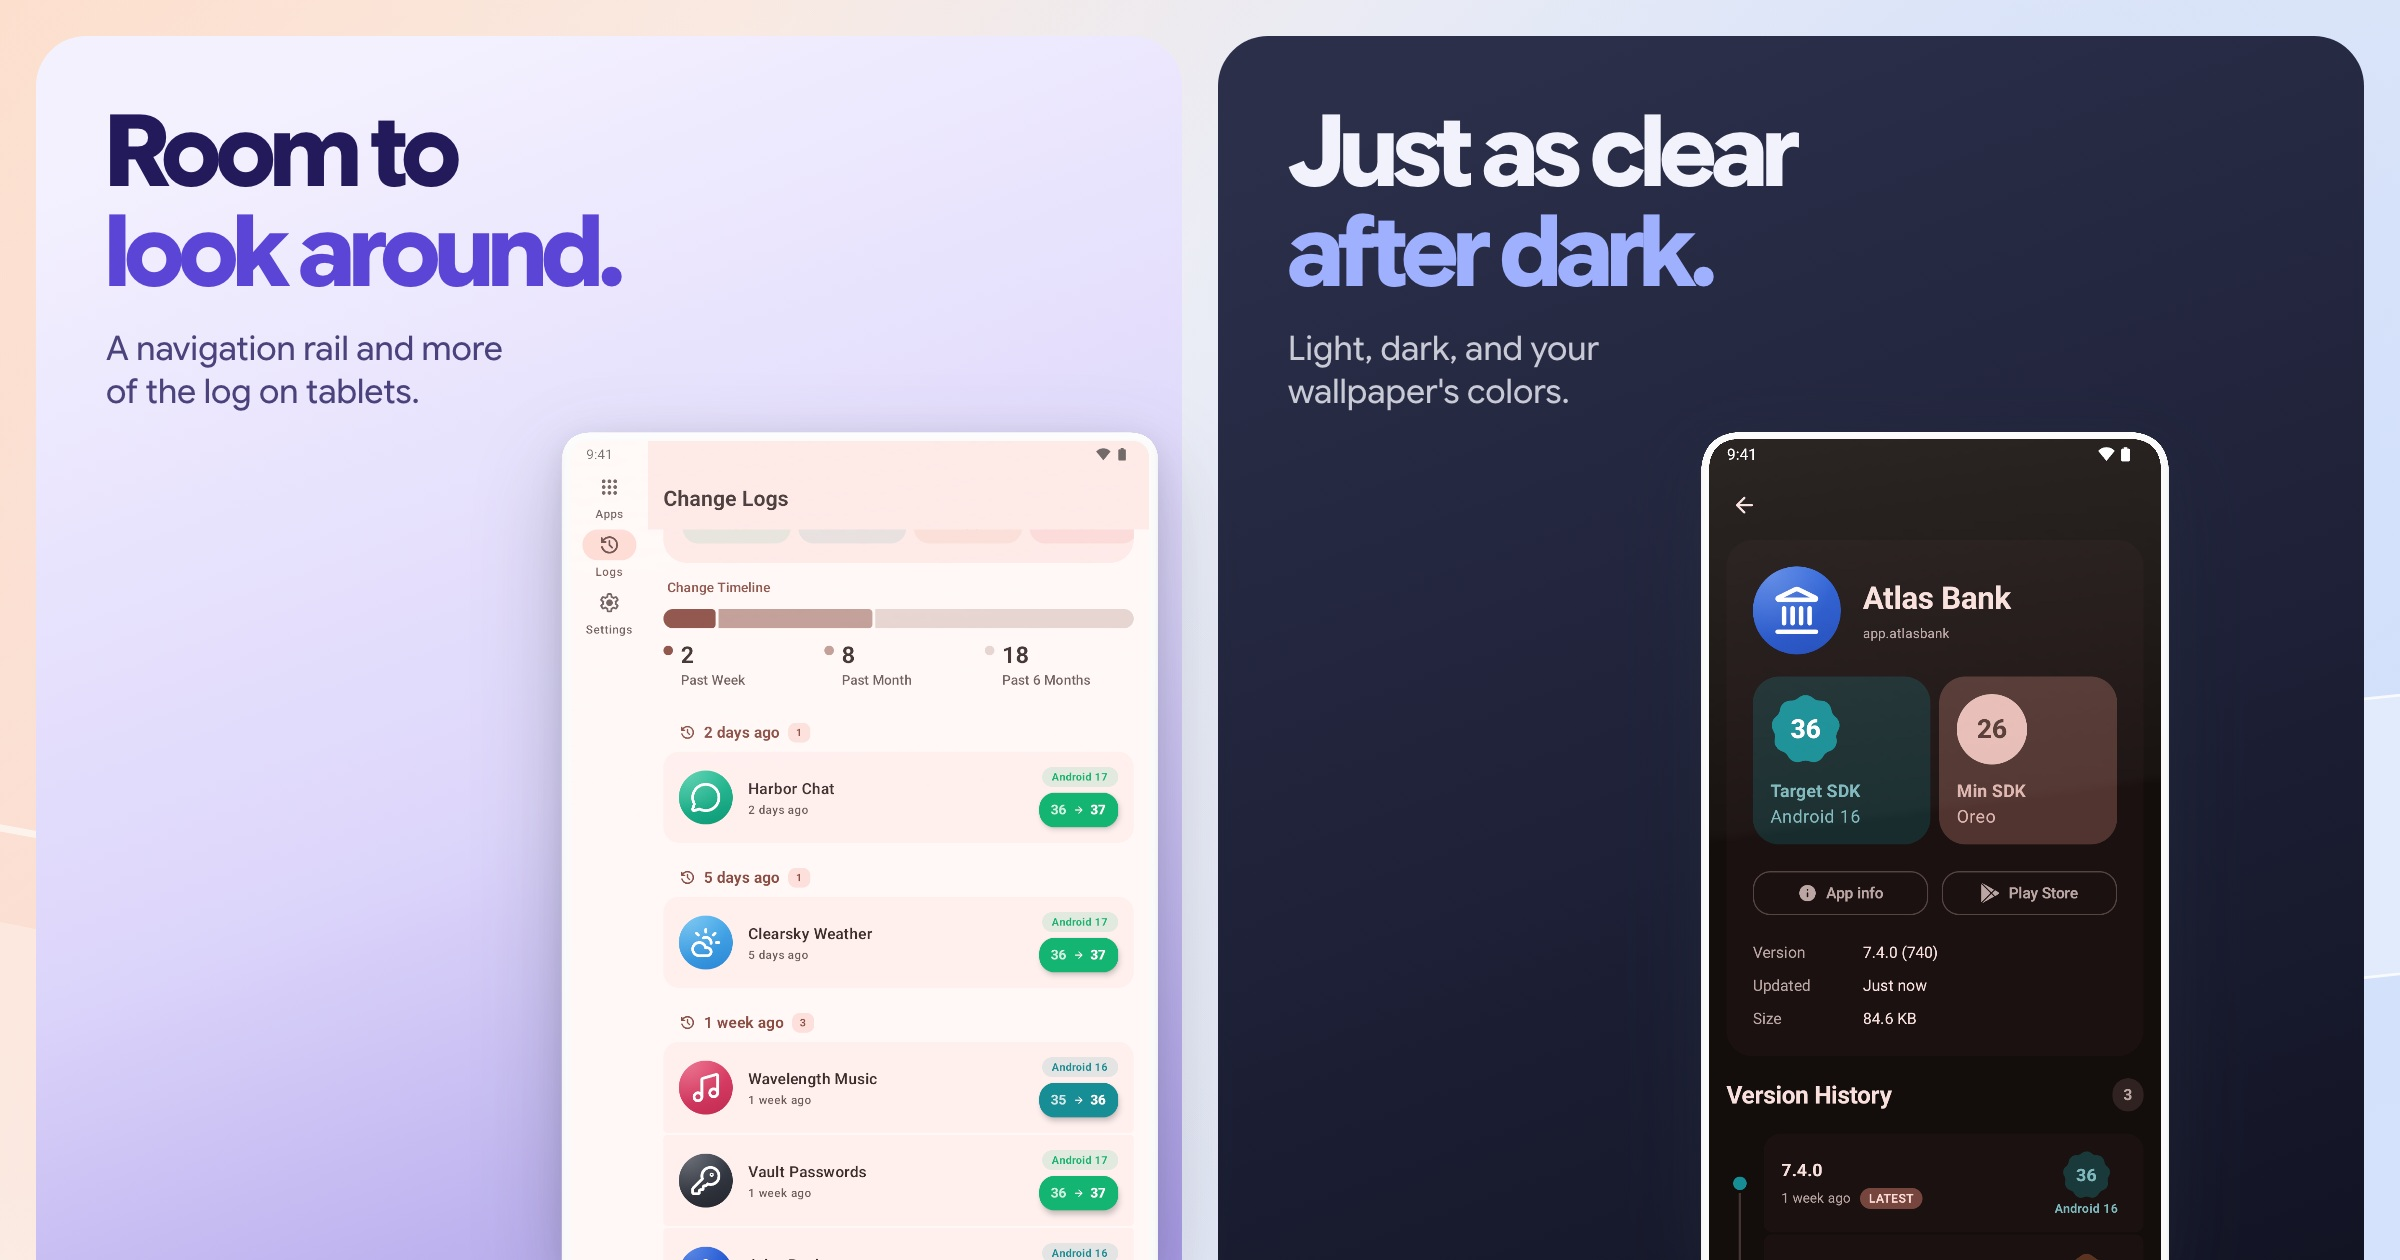
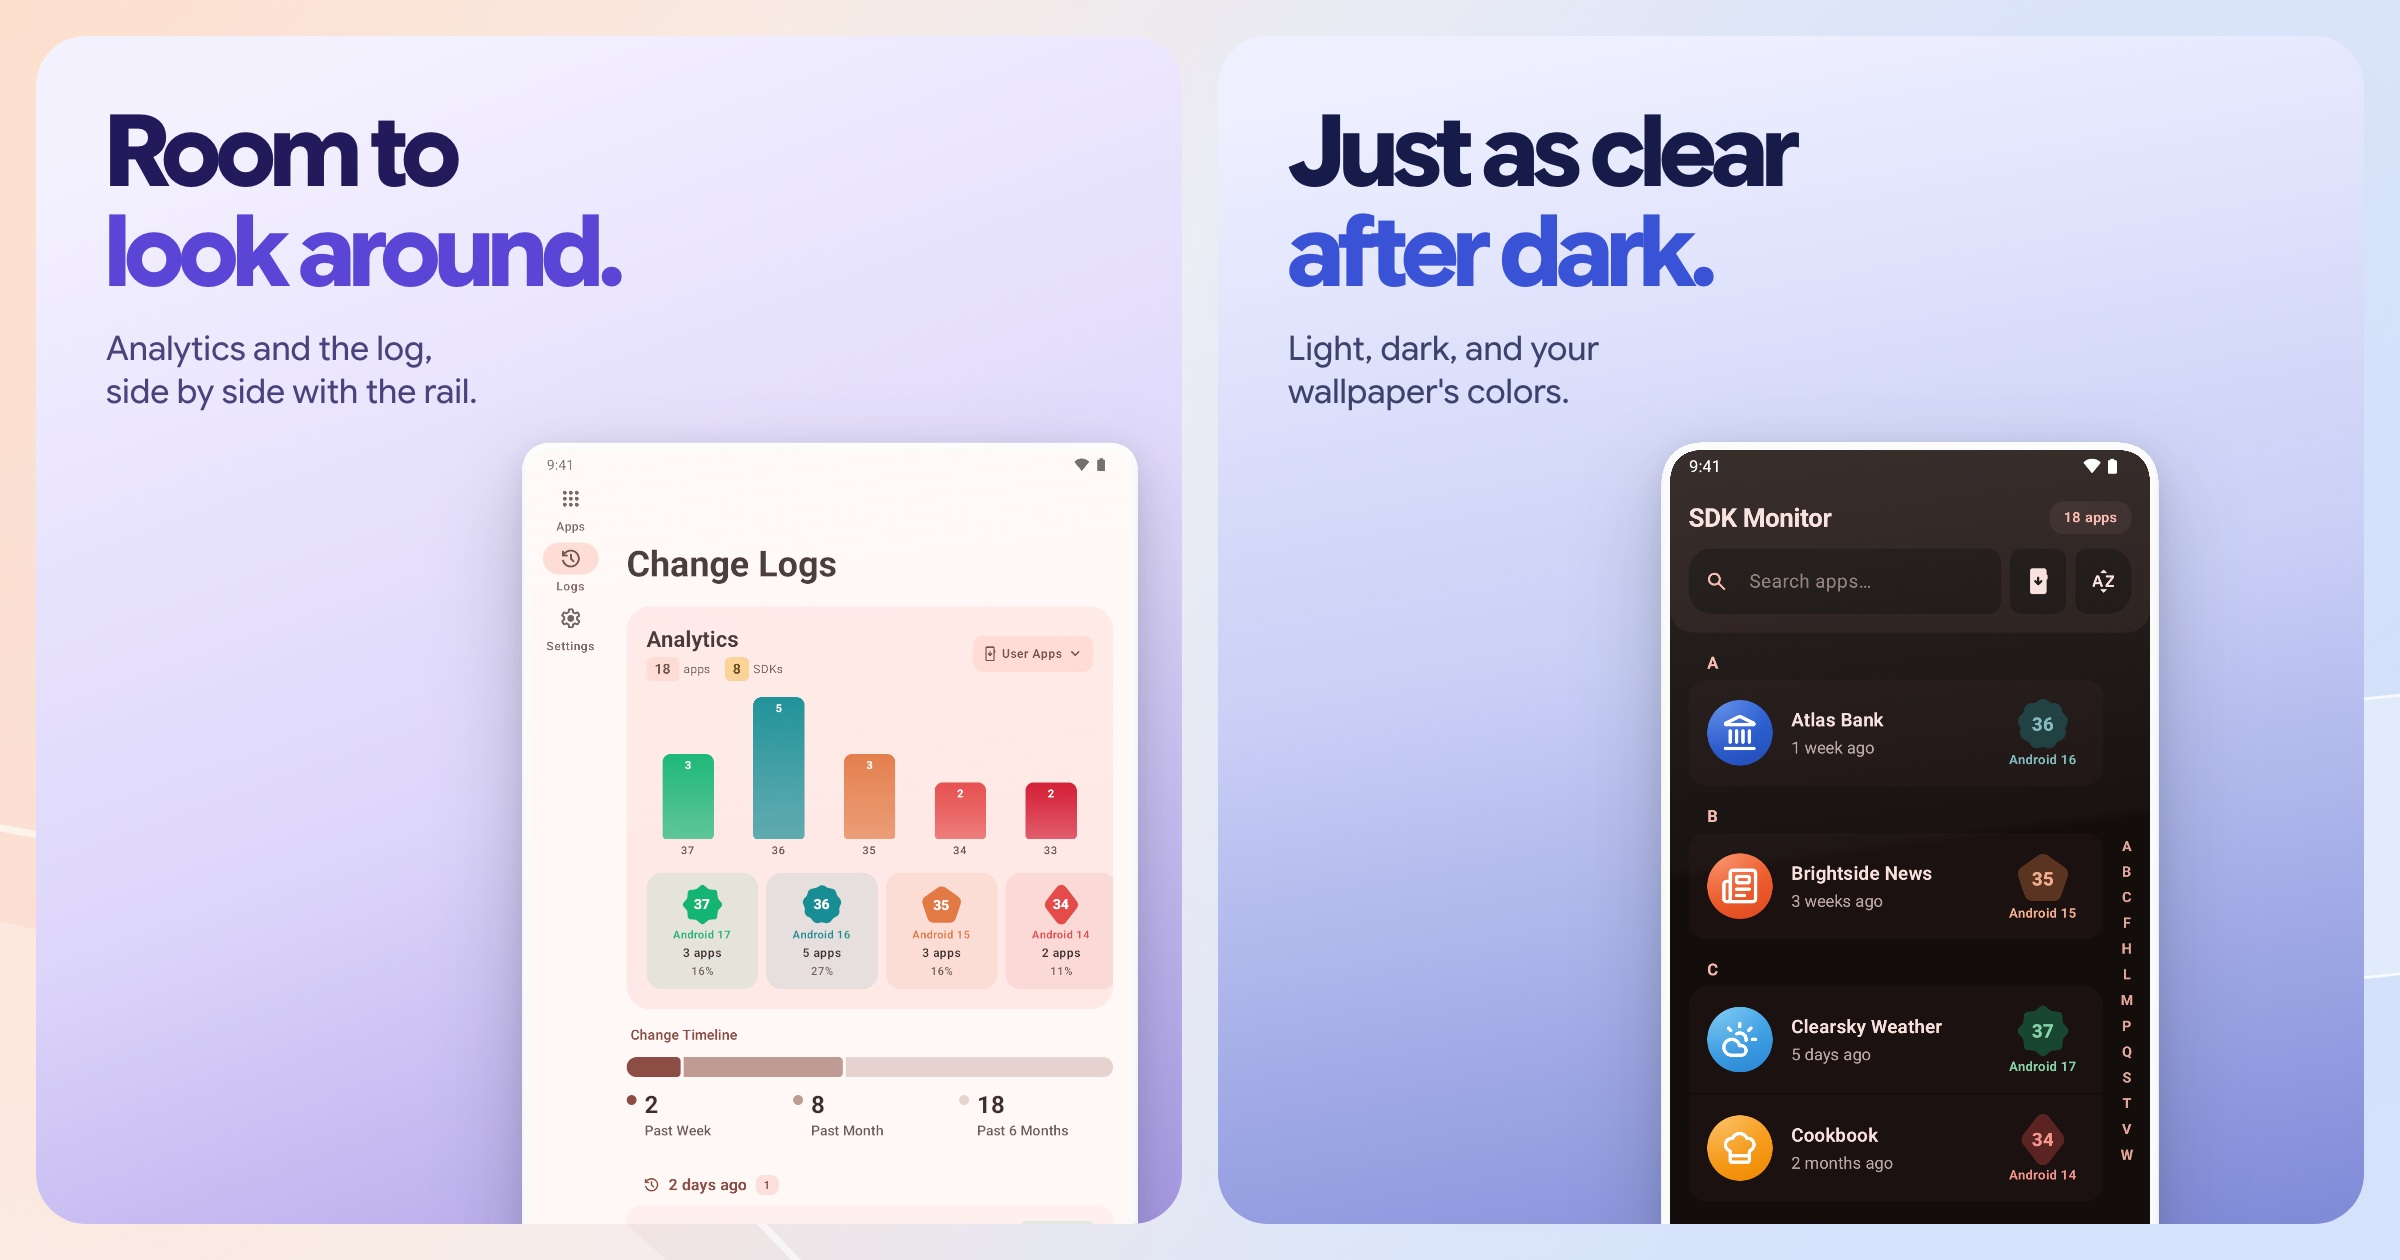
README panels inset evenly on every side with devices cut at their edge, like Calcula's; the tablet shows analytics, the dark phone the app list on a dusk panel, and the before and after shares the panels

diff --git a/store-listing/theme.css b/store-listing/theme.css
@@ -54,10 +54,10 @@ header p{margin:28px auto 0;font-size:38px;line-height:1.3;font-weight:420;lette
 .readme .hero .left{left:380px;top:430px;width:470px}
 .readme .hero .center{left:940px;top:370px;width:520px}
 .readme .hero .right{left:1550px;top:430px;width:470px}
-/* Panels (README): a tinted panel per device, open at the bottom so its phone runs off the card, with the
-   device's own headline and caption on top. The tints are the app's API-level colors: green for current, blue,
+/* Panels (README): a tinted panel per device, inset 36px on every side like Calcula's, with the device's own
+   headline and caption on top and the device cut at the panel's rounded edge (theme.js). The tints are the app's API-level colors: green for current, blue,
    and the peach of a level behind. */
-.readme .panel{position:absolute;top:36px;bottom:0;width:744px;overflow:hidden;border-radius:50px 50px 0 0;z-index:1}
+.readme .panel{position:absolute;top:36px;bottom:36px;width:744px;overflow:hidden;border-radius:50px;z-index:1}
 .readme .panel-title{margin:66px 70px 0;font-size:100px;line-height:1;font-weight:700;letter-spacing:-.035em;font-variation-settings:'opsz' 144,'ROND' 0}
 .readme .panel-caption{margin:26px 70px 0;font-size:34px;line-height:1.25;font-weight:440;opacity:.8}
 .readme .panel-title em{font-style:normal;background:none;-webkit-text-fill-color:currentColor;color:var(--accent)}
@@ -68,23 +68,23 @@ header p{margin:28px auto 0;font-size:38px;line-height:1.3;font-weight:420;lette
 .readme .panels .stand{left:138px}
 .readme .panels .change{left:930px}
 .readme .panels .version{left:1722px}
-/* Two panels: the tablet in a light one, the phone in dark mode in a dark one. */
+/* Two panels: the tablet's analytics in lavender, the app list in dark mode under a dusk gradient. */
 .readme .pair .panel{width:1146px}
 .readme .pair .panel-room{left:36px;background:linear-gradient(160deg,#f4f1ff 8%,#ddd6fb 58%,#a99ae6);color:#231a5c;--accent:#5b45d6}
-.readme .pair .panel-night{left:1218px;background:linear-gradient(160deg,#2b2f4a 8%,#1d2036 60%,#121424);color:#f1f2fb;--accent:#9fb0ff}
-.readme .pair .room{left:560px;top:430px;width:600px}
-.readme .pair .night{left:1700px;top:430px;width:470px}
-/* Before and after: each pair on a soft panel, 2019's flat dark frame beside today's white phone, whole, with
-   the year under each. */
-.readme .compare .pair-panel{position:absolute;top:60px;bottom:60px;width:1110px;border-radius:56px;background:#ffffff66;border:2px solid #ffffffaa;z-index:0}
-.readme .compare .pair-panel.first{left:60px}
-.readme .compare .pair-panel.second{right:60px}
-.readme .compare .device{top:120px;width:430px}
+.readme .pair .panel-night{left:1218px;background:linear-gradient(170deg,#eef0ff 6%,#c9cff6 50%,#7f8ad8);color:#161b4a;--accent:#3a52d6}
+.readme .pair .room{left:520px;top:440px;width:620px}
+.readme .pair .night{left:1660px;top:440px;width:500px}
+/* Before and after: each pair on a panel like the others (inset 36px, 50px corners), 2019's flat dark frame
+   beside today's white phone, whole, with the year under each. */
+.readme .compare .pair-panel{position:absolute;top:36px;bottom:36px;width:1146px;border-radius:50px;z-index:0}
+.readme .compare .pair-panel.first{left:36px;background:linear-gradient(160deg,#fff6ef 8%,#ffe3d1 58%,#f6b896)}
+.readme .compare .pair-panel.second{left:1218px;background:linear-gradient(170deg,#eef0ff 6%,#c9cff6 55%,#8d97e0)}
+.readme .compare .device{top:110px;width:440px}
 .readme .compare .device.before{--bezel:12px;--radius:56px;background:#20242c;box-shadow:0 40px 70px -40px #20242c99}
-.readme .compare .pair1.before{left:150px}
-.readme .compare .pair1.after{left:640px}
-.readme .compare .pair2.before{left:1330px}
-.readme .compare .pair2.after{left:1820px}
+.readme .compare .pair1.before{left:140px}
+.readme .compare .pair1.after{left:654px}
+.readme .compare .pair2.before{left:1322px}
+.readme .compare .pair2.after{left:1836px}
 .readme .compare .device-label{transform:translateY(calc(var(--tallest-device) + 26px));text-align:center;font-size:40px;font-weight:600;letter-spacing:-.01em;color:var(--muted)}
 .readme .compare .device-label em{font-style:normal}
 

diff --git a/store-listing/theme.js b/store-listing/theme.js
@@ -133,6 +133,14 @@ export default {
     const devices = [...main.querySelectorAll('.device.device-frame-phone:not(.before), .device.device-frame-tablet:not(.before)')];
     if (!devices.length) return;
     const {renderDevice} = await import('./phone3d.js');
-    for (const device of devices) await renderDevice(main, device);
+    for (const device of devices) {
+      const canvas = await renderDevice(main, device);
+      // On a panel card, the device shows only inside its own panel, cut at the panel's rounded edge.
+      const role = [...device.classList].find(c => main.querySelector(`.panel-${c}`));
+      if (!role) continue;
+      const card = main.getBoundingClientRect(), box = main.querySelector(`.panel-${role}`).getBoundingClientRect();
+      const r = getComputedStyle(main.querySelector(`.panel-${role}`)).borderTopLeftRadius;
+      canvas.style.clipPath = `inset(${box.top - card.top}px ${card.right - box.right}px ${card.bottom - box.bottom}px ${box.left - card.left}px round ${r})`;
+    }
   },
 };

diff --git a/store-listing/phone3d.js b/store-listing/phone3d.js
@@ -18,7 +18,7 @@ const roundedRect = (w, h, r) => {
 
 const DEPTH = {phone: 7.2 / 70.5, tablet: 6.1 / 165};
 
-/** Draws `front` (a .device) as a 3D device on a canvas over the card `main`; resolves once it is drawn. */
+/** Draws `front` (a .device) as a 3D device on a canvas over the card `main`; resolves to that canvas once drawn. */
 export async function renderDevice(main, front) {
   const style = getComputedStyle(front);
   // Card size in the frame's own (unzoomed) pixels: the share image zooms the frame, so it is drawn at the
@@ -112,4 +112,5 @@ export async function renderDevice(main, front) {
 
   renderer.render(scene, camera);
   front.style.visibility = 'hidden';
+  return canvas;
 }

diff --git a/README.md b/README.md
@@ -29,7 +29,7 @@
 ## On a tablet, and after dark
 
 <p align="center">
-  <img src="store-listing/en-US/readme/big-screen.jpg" width="100%" alt="The change log on a tablet with a navigation rail, and an app's details in dark mode on a phone">
+  <img src="store-listing/en-US/readme/big-screen.jpg" width="100%" alt="Room to look around: SDK analytics on a tablet with a navigation rail. Just as clear after dark: the app list in dark mode on a phone">
 </p>
 
 ## From 2019 to now
